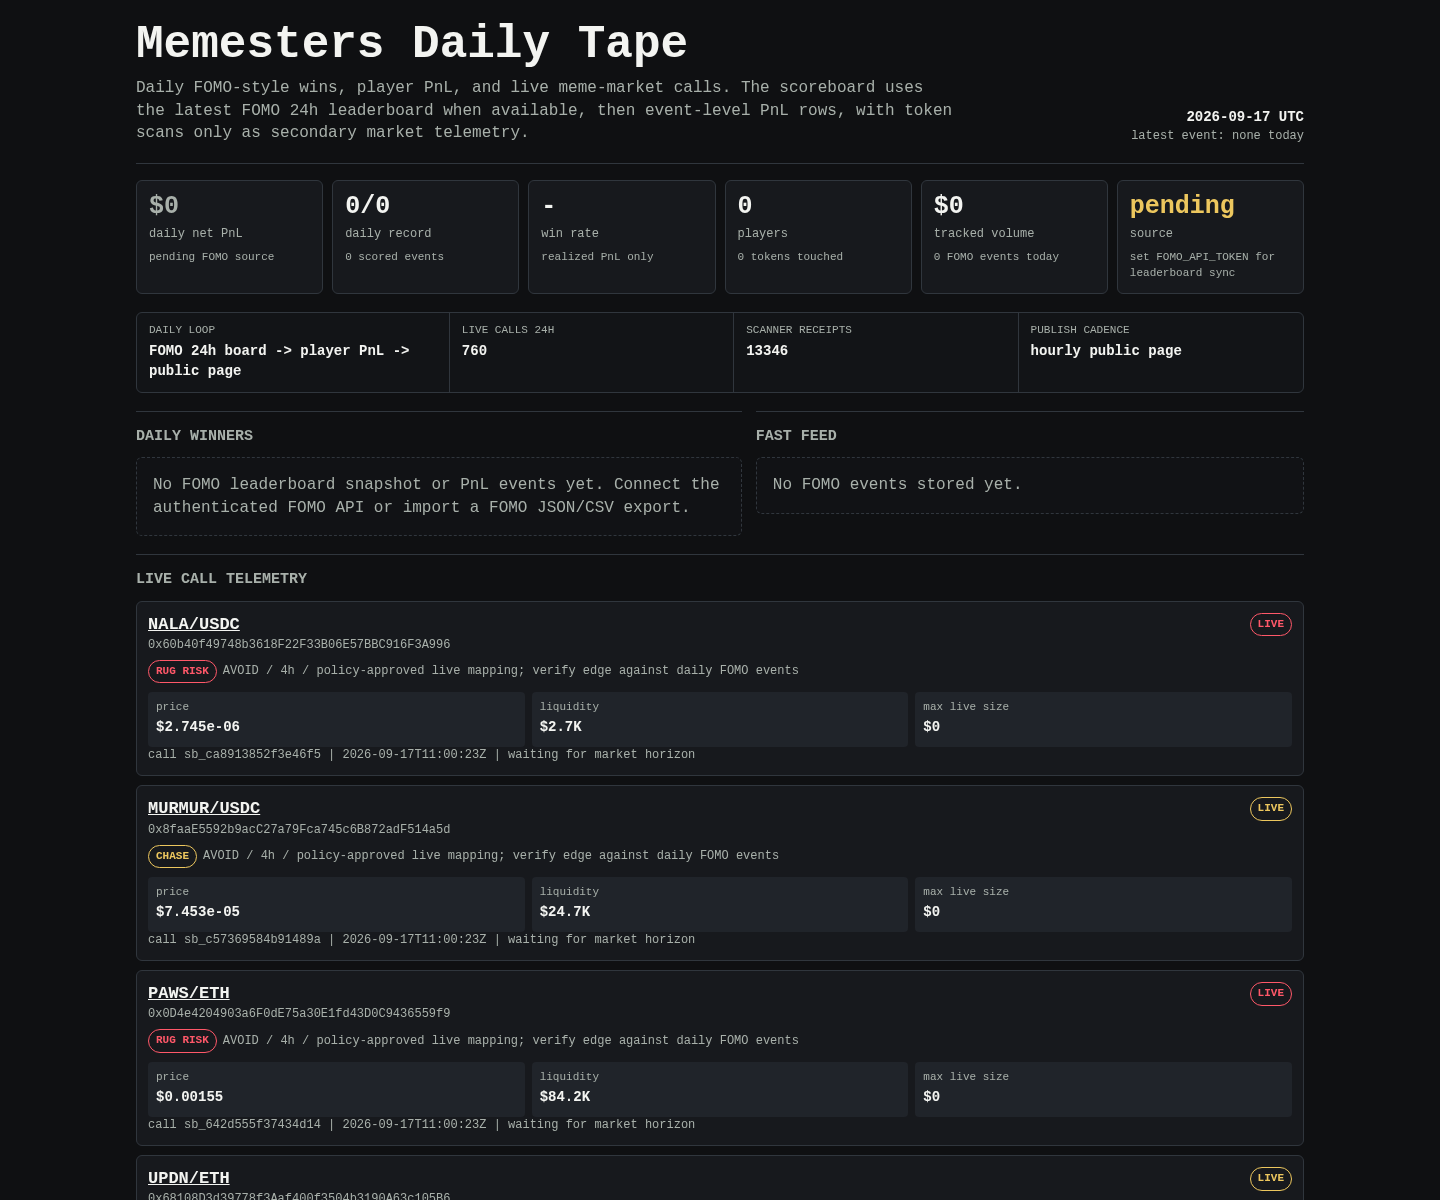
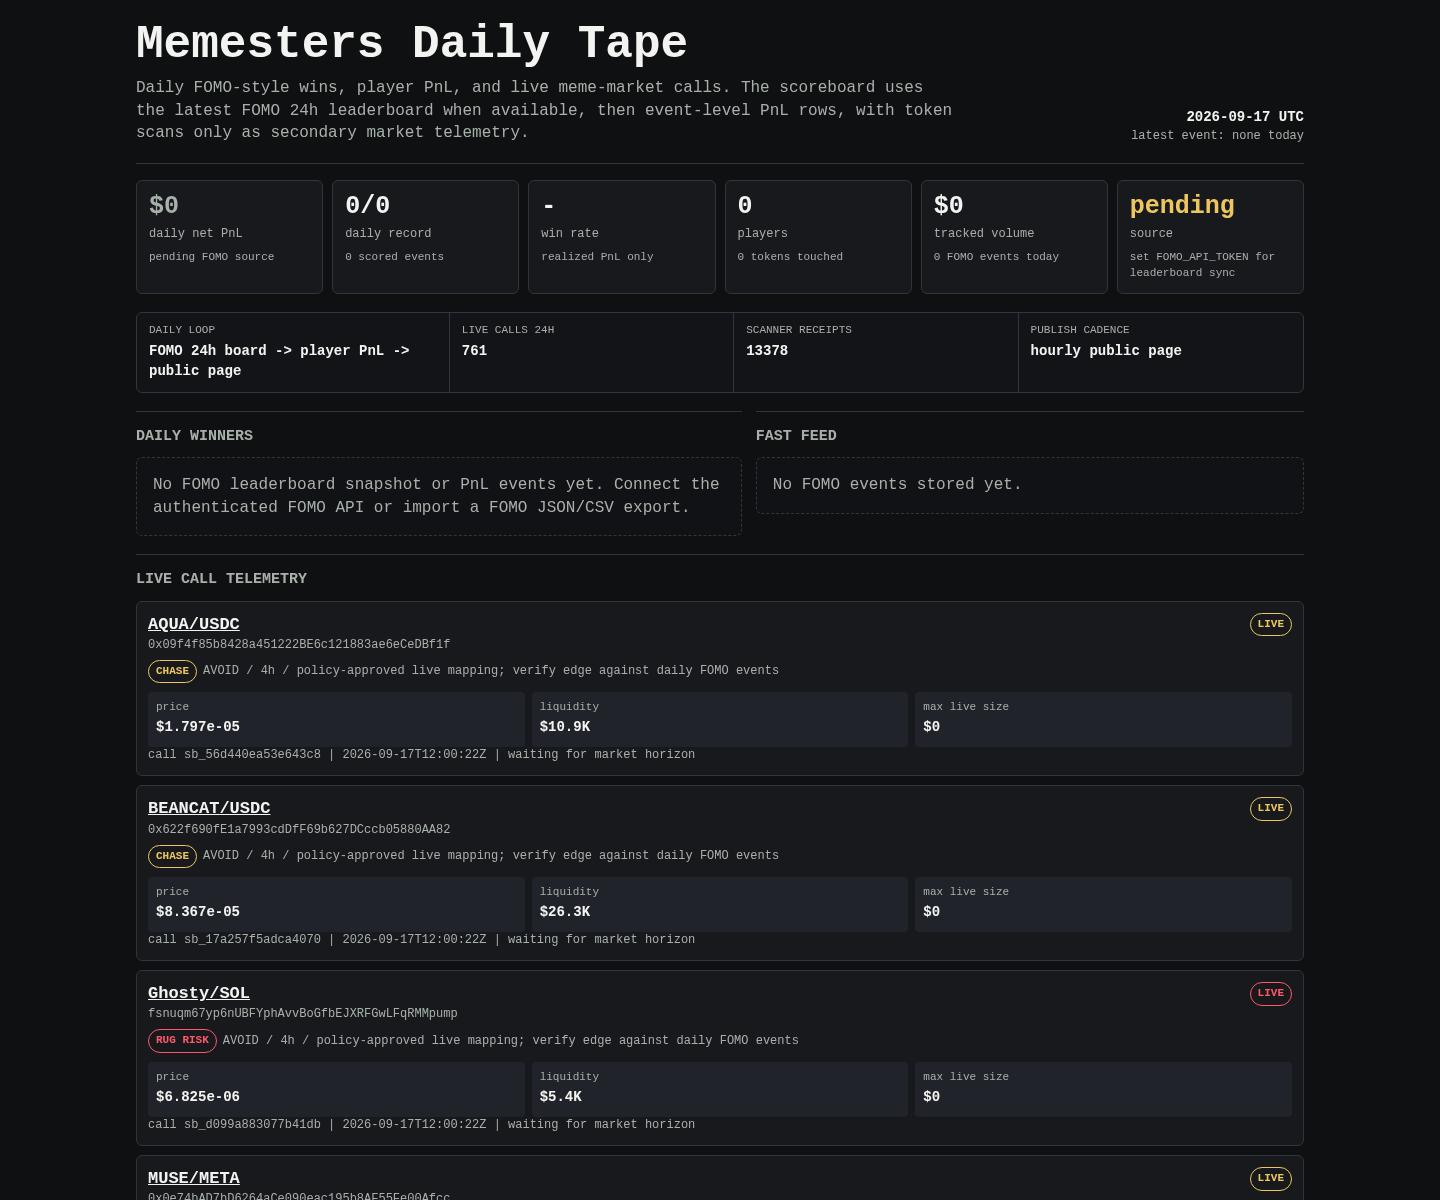
Update Memesters scoreboard

diff --git a/memesters/index.html b/memesters/index.html
@@ -149,8 +149,8 @@
 
     <div class="rail" aria-label="live operating loop">
       <div><span>daily loop</span><b>FOMO 24h board -> player PnL -> public page</b></div>
-      <div><span>live calls 24h</span><b>760</b></div>
-      <div><span>scanner receipts</span><b>13346</b></div>
+      <div><span>live calls 24h</span><b>761</b></div>
+      <div><span>scanner receipts</span><b>13378</b></div>
       <div><span>publish cadence</span><b>hourly public page</b></div>
     </div>
 
@@ -171,8 +171,50 @@
     <article class="receipt">
       <div class="receipt-head">
         <div>
-          <div class="pair"><a href="https://dexscreener.com/arc/0xd0a4fa33d0921b8231a2f0a30edad916fd274ee980edd2f5ee991fb374991f17">NALA/USDC</a></div>
-          <div class="addr">0x60b40f49748b3618F22F33B06E57BBC916F3A996</div>
+          <div class="pair"><a href="https://dexscreener.com/arc/0x09cf6fc95841871ab5df8243e1ec29458a002aab37d4e8f004c8daeb19fa9158">AQUA/USDC</a></div>
+          <div class="addr">0x09f4f85b8428a451222BE6c121883ae6eCeDBf1f</div>
+          <div class="addr policy-line">
+            <span class="badge chase">CHASE</span>
+            <span>AVOID / 4h / policy-approved live mapping; verify edge against daily FOMO events</span>
+          </div>
+        </div>
+        <span class="badge chase">LIVE</span>
+      </div>
+      <div class="receipt-grid">
+        <div class="kv"><span>price</span><b>$1.797e-05</b></div>
+        <div class="kv"><span>liquidity</span><b>$10.9K</b></div>
+        <div class="kv"><span>max live size</span><b>$0</b></div>
+      </div>
+      <div class="outcomes">call sb_56d440ea53e643c8 | 2026-09-17T12:00:22Z | waiting for market horizon</div>
+    </article>
+    
+
+    <article class="receipt">
+      <div class="receipt-head">
+        <div>
+          <div class="pair"><a href="https://dexscreener.com/arc/0x7060c9859ea8e382d1d8623a621ab9555511712bd773d2a17c989150582403f8">BEANCAT/USDC</a></div>
+          <div class="addr">0x622f690fE1a7993cdDfF69b627DCccb05880AA82</div>
+          <div class="addr policy-line">
+            <span class="badge chase">CHASE</span>
+            <span>AVOID / 4h / policy-approved live mapping; verify edge against daily FOMO events</span>
+          </div>
+        </div>
+        <span class="badge chase">LIVE</span>
+      </div>
+      <div class="receipt-grid">
+        <div class="kv"><span>price</span><b>$8.367e-05</b></div>
+        <div class="kv"><span>liquidity</span><b>$26.3K</b></div>
+        <div class="kv"><span>max live size</span><b>$0</b></div>
+      </div>
+      <div class="outcomes">call sb_17a257f5adca4070 | 2026-09-17T12:00:22Z | waiting for market horizon</div>
+    </article>
+    
+
+    <article class="receipt">
+      <div class="receipt-head">
+        <div>
+          <div class="pair"><a href="https://dexscreener.com/solana/9kpudom7heiuwb7hs2lrg3t4aed34i7dwtsj7se4pxaz">Ghosty/SOL</a></div>
+          <div class="addr">fsnuqm67yp6nUBFYphAvvBoGfbEJXRFGwLFqRMMpump</div>
           <div class="addr policy-line">
             <span class="badge rug-risk">RUG RISK</span>
             <span>AVOID / 4h / policy-approved live mapping; verify edge against daily FOMO events</span>
@@ -181,19 +223,19 @@
         <span class="badge rug-risk">LIVE</span>
       </div>
       <div class="receipt-grid">
-        <div class="kv"><span>price</span><b>$2.745e-06</b></div>
-        <div class="kv"><span>liquidity</span><b>$2.7K</b></div>
+        <div class="kv"><span>price</span><b>$6.825e-06</b></div>
+        <div class="kv"><span>liquidity</span><b>$5.4K</b></div>
         <div class="kv"><span>max live size</span><b>$0</b></div>
       </div>
-      <div class="outcomes">call sb_ca8913852f3e46f5 | 2026-09-17T11:00:23Z | waiting for market horizon</div>
+      <div class="outcomes">call sb_d099a883077b41db | 2026-09-17T12:00:22Z | waiting for market horizon</div>
     </article>
     
 
     <article class="receipt">
       <div class="receipt-head">
         <div>
-          <div class="pair"><a href="https://dexscreener.com/arc/0xf26ed425bae6cb71d65a14115f7af4d315e3fb70fcc0db22195d38c2c09f8295">MURMUR/USDC</a></div>
-          <div class="addr">0x8faaE5592b9acC27a79Fca745c6B872adF514a5d</div>
+          <div class="pair"><a href="https://dexscreener.com/robinhood/0xcb3e568703ba2f03f1406740685ebe542781c2a5c7e0b8f77ac086762d6f8c97">MUSE/META</a></div>
+          <div class="addr">0x0e74bAD7bD6264aCe090eac195b8AF55Fe00Afcc</div>
           <div class="addr policy-line">
             <span class="badge chase">CHASE</span>
             <span>AVOID / 4h / policy-approved live mapping; verify edge against daily FOMO events</span>
@@ -202,19 +244,19 @@
         <span class="badge chase">LIVE</span>
       </div>
       <div class="receipt-grid">
-        <div class="kv"><span>price</span><b>$7.453e-05</b></div>
-        <div class="kv"><span>liquidity</span><b>$24.7K</b></div>
+        <div class="kv"><span>price</span><b>$0.1278</b></div>
+        <div class="kv"><span>liquidity</span><b>$81.7K</b></div>
         <div class="kv"><span>max live size</span><b>$0</b></div>
       </div>
-      <div class="outcomes">call sb_c57369584b91489a | 2026-09-17T11:00:23Z | waiting for market horizon</div>
+      <div class="outcomes">call sb_af9d4709106a4c6e | 2026-09-17T12:00:22Z | waiting for market horizon</div>
     </article>
     
 
     <article class="receipt">
       <div class="receipt-head">
         <div>
-          <div class="pair"><a href="https://dexscreener.com/robinhood/0xc35bdd1e26bc96b5801f8775b838f96debdb1821f9927a9cfe6dbc8031f5ef41">PAWS/ETH</a></div>
-          <div class="addr">0x0D4e4204903a6F0dE75a30E1fd43D0C9436559f9</div>
+          <div class="pair"><a href="https://dexscreener.com/solana/7u4t5cj9hamxfhrznhhzyldgax4ramdtq8hkmiorruvm">Ghosti/SOL</a></div>
+          <div class="addr">FhPVoSgFXMU9ZzDfQ82cVjAAqTDb3tf3Kmajdjh2pump</div>
           <div class="addr policy-line">
             <span class="badge rug-risk">RUG RISK</span>
             <span>AVOID / 4h / policy-approved live mapping; verify edge against daily FOMO events</span>
@@ -223,82 +265,19 @@
         <span class="badge rug-risk">LIVE</span>
       </div>
       <div class="receipt-grid">
-        <div class="kv"><span>price</span><b>$0.00155</b></div>
-        <div class="kv"><span>liquidity</span><b>$84.2K</b></div>
+        <div class="kv"><span>price</span><b>$1.636e-05</b></div>
+        <div class="kv"><span>liquidity</span><b>$9.2K</b></div>
         <div class="kv"><span>max live size</span><b>$0</b></div>
       </div>
-      <div class="outcomes">call sb_642d555f37434d14 | 2026-09-17T11:00:23Z | waiting for market horizon</div>
+      <div class="outcomes">call sb_c8bbfe9daadd4982 | 2026-09-17T12:00:21Z | waiting for market horizon</div>
     </article>
     
 
     <article class="receipt">
       <div class="receipt-head">
         <div>
-          <div class="pair"><a href="https://dexscreener.com/robinhood/0xbdc454331f582d91d7ca1c045f583db3ce480765680a9338cf45e94bdf524adc">UPDN/ETH</a></div>
-          <div class="addr">0x68108D3d39778f3Aaf400f3504b3190A63c105B6</div>
-          <div class="addr policy-line">
-            <span class="badge chase">CHASE</span>
-            <span>AVOID / 4h / policy-approved live mapping; verify edge against daily FOMO events</span>
-          </div>
-        </div>
-        <span class="badge chase">LIVE</span>
-      </div>
-      <div class="receipt-grid">
-        <div class="kv"><span>price</span><b>$0.0007988</b></div>
-        <div class="kv"><span>liquidity</span><b>$84.1K</b></div>
-        <div class="kv"><span>max live size</span><b>$0</b></div>
-      </div>
-      <div class="outcomes">call sb_72a49921a7294419 | 2026-09-17T11:00:23Z | waiting for market horizon</div>
-    </article>
-    
-
-    <article class="receipt">
-      <div class="receipt-head">
-        <div>
-          <div class="pair"><a href="https://dexscreener.com/robinhood/0x3f2fd0bb44dd197ae6146fe49a04bd29a3dff858">ETH/WETH</a></div>
-          <div class="addr">0x781198652265aE95829d907910092fB644f156Ab</div>
-          <div class="addr policy-line">
-            <span class="badge chase">CHASE</span>
-            <span>AVOID / 4h / policy-approved live mapping; verify edge against daily FOMO events</span>
-          </div>
-        </div>
-        <span class="badge chase">LIVE</span>
-      </div>
-      <div class="receipt-grid">
-        <div class="kv"><span>price</span><b>$0.0002256</b></div>
-        <div class="kv"><span>liquidity</span><b>$84.0K</b></div>
-        <div class="kv"><span>max live size</span><b>$0</b></div>
-      </div>
-      <div class="outcomes">call sb_3c1eb1ebc4be41fd | 2026-09-17T11:00:23Z | waiting for market horizon</div>
-    </article>
-    
-
-    <article class="receipt">
-      <div class="receipt-head">
-        <div>
-          <div class="pair"><a href="https://dexscreener.com/robinhood/0xc25af64159adae4aa715b7695af6bf29acb28d4f40ba26ac6124fb3d181489eb">JEV/WETH</a></div>
-          <div class="addr">0x03c0a9A438d015Ac02EBC65DdEf90ecF69A4E30e</div>
-          <div class="addr policy-line">
-            <span class="badge chase">CHASE</span>
-            <span>AVOID / 4h / policy-approved live mapping; verify edge against daily FOMO events</span>
-          </div>
-        </div>
-        <span class="badge chase">LIVE</span>
-      </div>
-      <div class="receipt-grid">
-        <div class="kv"><span>price</span><b>$7.931e-05</b></div>
-        <div class="kv"><span>liquidity</span><b>$45.8K</b></div>
-        <div class="kv"><span>max live size</span><b>$0</b></div>
-      </div>
-      <div class="outcomes">call sb_71163d6a444e4aab | 2026-09-17T11:00:23Z | waiting for market horizon</div>
-    </article>
-    
-
-    <article class="receipt">
-      <div class="receipt-head">
-        <div>
-          <div class="pair"><a href="https://dexscreener.com/solana/dsea2fnwm5x5l5wjlwevz65syzjmw16jkkvqmn8dzzsj">STONKEY/STONK</a></div>
-          <div class="addr">GeCCvWvWhCUY4x1DRPAqnZifpiwvURtnK3CJYcTy7bq3</div>
+          <div class="pair"><a href="https://dexscreener.com/solana/auw3g7hpqpy6azkwhuve4xgjm9hrtffyx9nxhlaytpwr">Meme/SOL</a></div>
+          <div class="addr">CWxd4ydu9SB3QqWKX3brqtsA6YNFgA8SbgW3BF4dXwk3</div>
           <div class="addr policy-line">
             <span class="badge early">EARLY</span>
             <span>BUY / 1h / policy-approved live mapping; verify edge against daily FOMO events</span>
@@ -307,19 +286,19 @@
         <span class="badge early">LIVE</span>
       </div>
       <div class="receipt-grid">
-        <div class="kv"><span>price</span><b>$5.508e-05</b></div>
-        <div class="kv"><span>liquidity</span><b>$19.1K</b></div>
-        <div class="kv"><span>max live size</span><b>$25</b></div>
+        <div class="kv"><span>price</span><b>$2.489e-05</b></div>
+        <div class="kv"><span>liquidity</span><b>$11.6K</b></div>
+        <div class="kv"><span>max live size</span><b>$139</b></div>
       </div>
-      <div class="outcomes">call sb_1bca10a109ea4510 | 2026-09-17T11:00:23Z | waiting for market horizon</div>
+      <div class="outcomes">call sb_4218dcc635914d5a | 2026-09-17T12:00:21Z | waiting for market horizon</div>
     </article>
     
 
     <article class="receipt">
       <div class="receipt-head">
         <div>
-          <div class="pair"><a href="https://dexscreener.com/robinhood/0x09b09b2e61a8e2b6b187c127064ccb346dbd8258ddeaac40d0ec157f289851de">MCHAT/WETH</a></div>
-          <div class="addr">0xE6642A052424a50D160Ab1BE907cEcfb5485474a</div>
+          <div class="pair"><a href="https://dexscreener.com/arc/0xdef371c8d3b4d435671271865bbd359d725491f0a54f424454514b606e0d746f">malwarekitty/USDC</a></div>
+          <div class="addr">0x645f5A4FE9dcF2a4152f8efeCA654D88767e4c59</div>
           <div class="addr policy-line">
             <span class="badge chase">CHASE</span>
             <span>AVOID / 4h / policy-approved live mapping; verify edge against daily FOMO events</span>
@@ -328,19 +307,19 @@
         <span class="badge chase">LIVE</span>
       </div>
       <div class="receipt-grid">
-        <div class="kv"><span>price</span><b>$7.317e-05</b></div>
-        <div class="kv"><span>liquidity</span><b>$64.7K</b></div>
+        <div class="kv"><span>price</span><b>$7.367e-06</b></div>
+        <div class="kv"><span>liquidity</span><b>$6.4K</b></div>
         <div class="kv"><span>max live size</span><b>$0</b></div>
       </div>
-      <div class="outcomes">call sb_bd01b8d54d8d4d17 | 2026-09-17T11:00:22Z | waiting for market horizon</div>
+      <div class="outcomes">call sb_5a6b83e1e2d747dc | 2026-09-17T12:00:21Z | waiting for market horizon</div>
     </article>
     
 
     <article class="receipt">
       <div class="receipt-head">
         <div>
-          <div class="pair"><a href="https://dexscreener.com/solana/8bupgmjv186mcfpyasyszmgczwby2szeifxejwbvpxtg">MEME/SOL</a></div>
-          <div class="addr">2bPXDbS9xAQx8MKypqqLeSDqkjjtKmxa4SUh9GzBpump</div>
+          <div class="pair"><a href="https://dexscreener.com/solana/9zpu9ftgxogq1r91pujynawacn2qxztqxeryn5c4sait">Ghosti/PSOL</a></div>
+          <div class="addr">6vPkAYKx3EFTB2mcD1a9rYBf2YtqezED9X9DsJtDm7ut</div>
           <div class="addr policy-line">
             <span class="badge rug-risk">RUG RISK</span>
             <span>AVOID / 4h / policy-approved live mapping; verify edge against daily FOMO events</span>
@@ -349,19 +328,40 @@
         <span class="badge rug-risk">LIVE</span>
       </div>
       <div class="receipt-grid">
-        <div class="kv"><span>price</span><b>$5.85e-06</b></div>
-        <div class="kv"><span>liquidity</span><b>$4.7K</b></div>
+        <div class="kv"><span>price</span><b>$1.023e-05</b></div>
+        <div class="kv"><span>liquidity</span><b>$9.3K</b></div>
         <div class="kv"><span>max live size</span><b>$0</b></div>
       </div>
-      <div class="outcomes">call sb_34b5b0b25f7946a3 | 2026-09-17T10:45:21Z | waiting for market horizon</div>
+      <div class="outcomes">call sb_d735b0d41e5849e3 | 2026-09-17T12:00:21Z | waiting for market horizon</div>
     </article>
     
 
     <article class="receipt">
       <div class="receipt-head">
         <div>
-          <div class="pair"><a href="https://dexscreener.com/arc/0xd0a4fa33d0921b8231a2f0a30edad916fd274ee980edd2f5ee991fb374991f17">NALA/USDC</a></div>
-          <div class="addr">0x60b40f49748b3618F22F33B06E57BBC916F3A996</div>
+          <div class="pair"><a href="https://dexscreener.com/robinhood/0x397fae6ffcb791307b34feca77b71756fd05911a4839ecfa773fba04f61215f4">MPCANARY/META</a></div>
+          <div class="addr">0xE42a7fEaD58e838f229079E3889C246Fbca58dd4</div>
+          <div class="addr policy-line">
+            <span class="badge chase">CHASE</span>
+            <span>AVOID / 4h / policy-approved live mapping; verify edge against daily FOMO events</span>
+          </div>
+        </div>
+        <span class="badge chase">LIVE</span>
+      </div>
+      <div class="receipt-grid">
+        <div class="kv"><span>price</span><b>$4.996e-05</b></div>
+        <div class="kv"><span>liquidity</span><b>$19.4K</b></div>
+        <div class="kv"><span>max live size</span><b>$0</b></div>
+      </div>
+      <div class="outcomes">call sb_6ec5ada0161b4df9 | 2026-09-17T11:45:19Z | waiting for market horizon</div>
+    </article>
+    
+
+    <article class="receipt">
+      <div class="receipt-head">
+        <div>
+          <div class="pair"><a href="https://dexscreener.com/robinhood/0xb1db851900f34a9f0fc05d8bab9197840e67fcf6">MEME/WETH</a></div>
+          <div class="addr">0x09aE018BA05291a8c69F70E03C0Ba685753b0F3a</div>
           <div class="addr policy-line">
             <span class="badge rug-risk">RUG RISK</span>
             <span>AVOID / 4h / policy-approved live mapping; verify edge against daily FOMO events</span>
@@ -370,11 +370,11 @@
         <span class="badge rug-risk">LIVE</span>
       </div>
       <div class="receipt-grid">
-        <div class="kv"><span>price</span><b>$2.703e-06</b></div>
-        <div class="kv"><span>liquidity</span><b>$2.7K</b></div>
+        <div class="kv"><span>price</span><b>$0.0003358</b></div>
+        <div class="kv"><span>liquidity</span><b>$110.3K</b></div>
         <div class="kv"><span>max live size</span><b>$0</b></div>
       </div>
-      <div class="outcomes">call sb_2f91dab0a59c436c | 2026-09-17T10:45:20Z | waiting for market horizon</div>
+      <div class="outcomes">call sb_b17d1e8b396c456e | 2026-09-17T11:45:19Z | waiting for market horizon</div>
     </article>
     
     </section>
